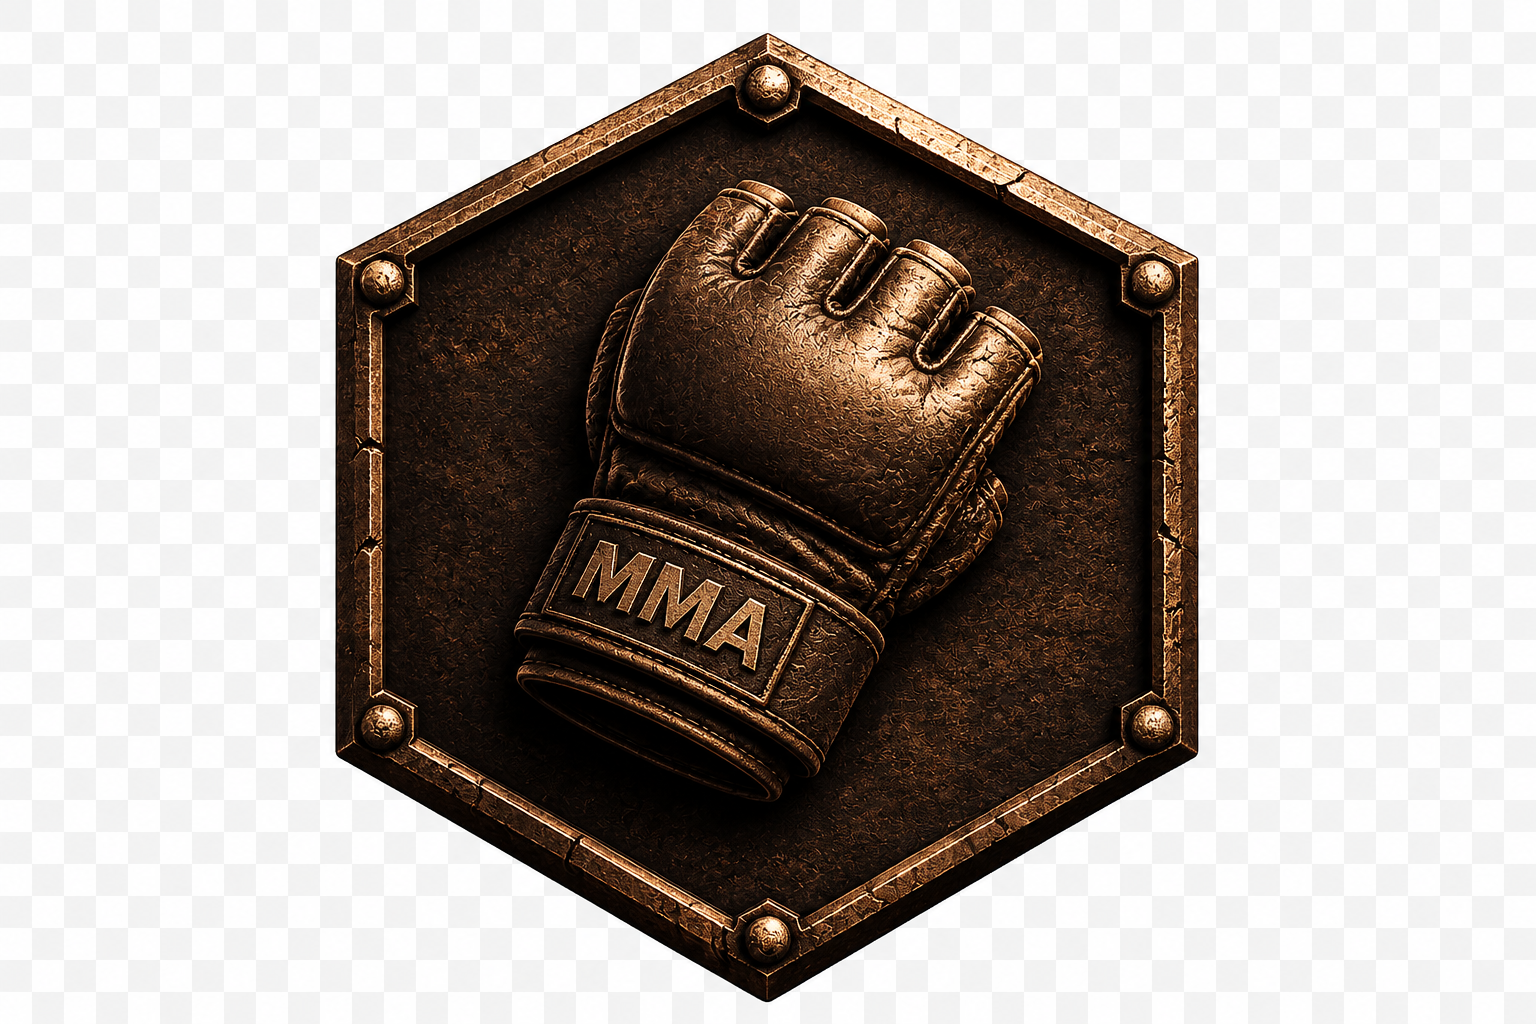
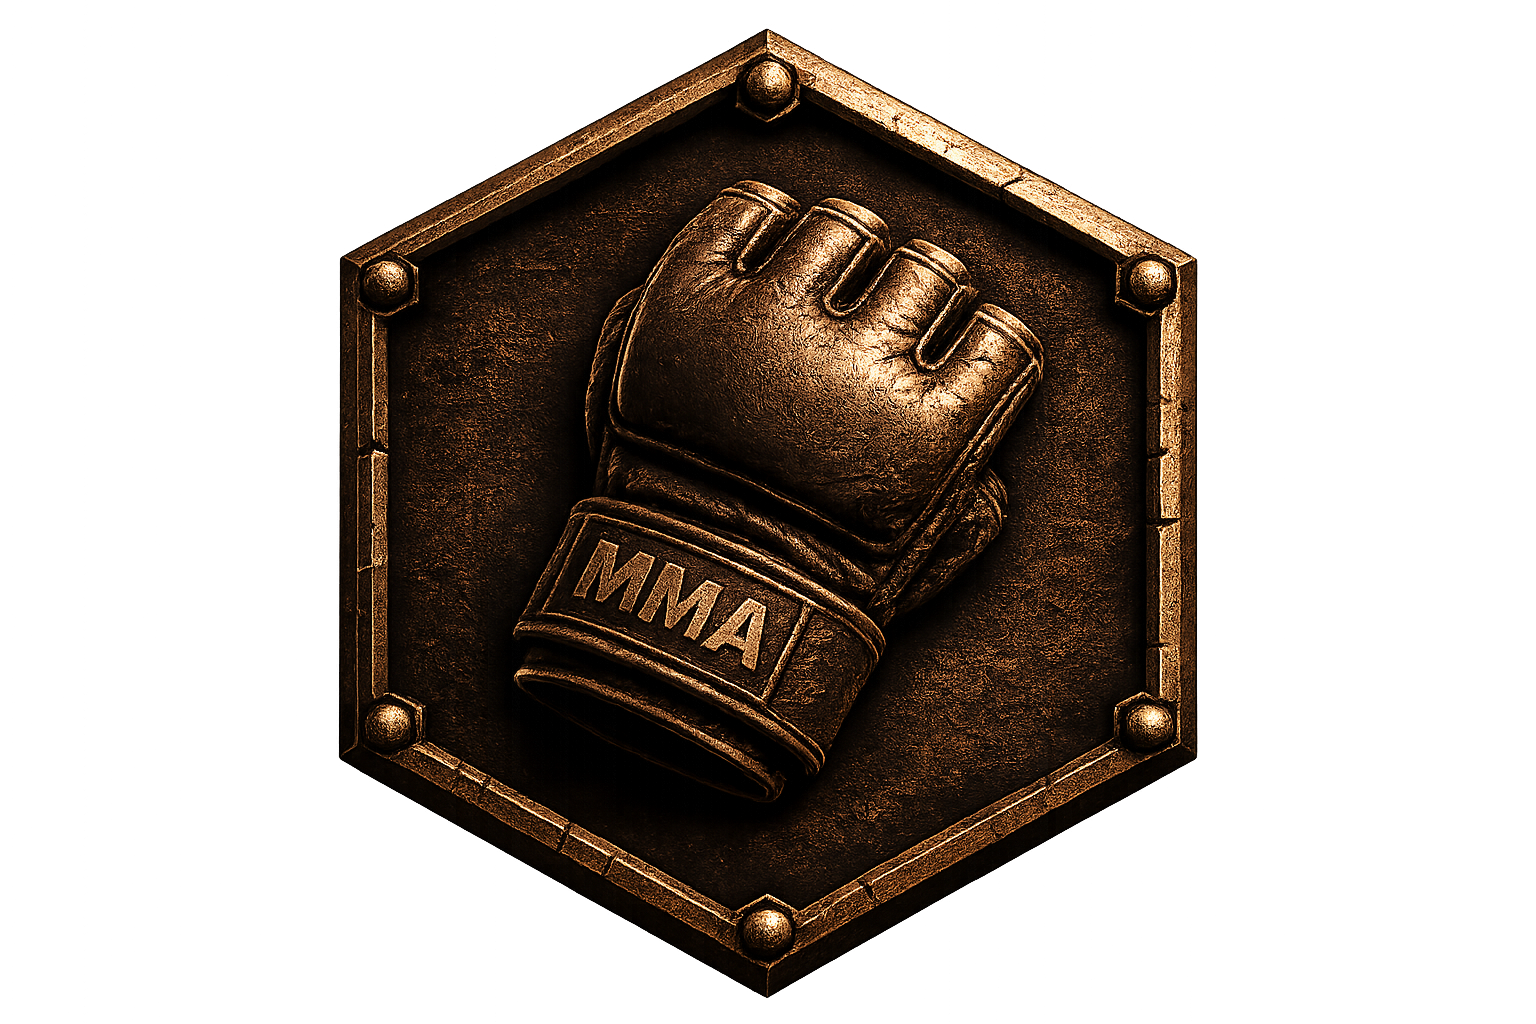
Mental hub: overlay pullback, image brightness, body text readable; breathwork images staged

Changed region(s): [[0.2188, 0.0312, 0.7812, 0.9688]]

diff --git a/src/app/(app)/history/page.tsx b/src/app/(app)/history/page.tsx
@@ -294,4 +294,98 @@ export default async function HistoryPage() {
                 </div>
 
                 {/* ── Rows ── */}
-                <div
+                <div style={{ display: 'flex', flexDirection: 'column' }}>
+                  {g.sessions.map((s, si) => {
+                    const typeLabel = s.session_type
+                      ? SESSION_TYPE_LABELS[s.session_type] ?? s.session_type.toUpperCase()
+                      : 'SESSION';
+                    const hasRefl = reflectionIds.has(s.id);
+                    const techN = techCounts[s.id] ?? 0;
+                    const rollN = rollCounts[s.id] ?? 0;
+
+                    const chips: string[] = [];
+                    if (s.duration_minutes) chips.push(`${s.duration_minutes}M`);
+                    if (techN > 0) chips.push(`${techN}T`);
+                    if (rollN > 0) chips.push(`${rollN}R`);
+
+                    return (
+                      <Link
+                        key={s.id}
+                        href={`/history/${s.id}`}
+                        style={{
+                          display: 'block',
+                          textDecoration: 'none',
+                          color: C.text,
+                          borderTop: si === 0 ? `1px solid ${C.border}` : 'none',
+                          borderBottom: `1px solid ${C.border}`,
+                          borderLeft: hasRefl ? `3px solid ${C.amber}` : '3px solid transparent',
+                          paddingLeft: 14,
+                        }}
+                      >
+                        <div style={{
+                          display: 'flex', alignItems: 'center',
+                          padding: '13px 0',
+                          gap: 12,
+                        }}>
+
+                          {/* Date + chips */}
+                          <div style={{ flex: 1 }}>
+                            <span style={{
+                              fontFamily: 'var(--font-anton)',
+                              fontSize: 15, letterSpacing: '0.06em',
+                              color: C.text, display: 'block',
+                            }}>
+                              {format(parseISO(s.session_date), 'EEE, MMM d').toUpperCase()}
+                            </span>
+                            {chips.length > 0 && (
+                              <span style={{
+                                fontFamily: 'var(--font-dm-mono)',
+                                fontSize: 9, letterSpacing: '0.16em',
+                                color: C.dimmer, marginTop: 3, display: 'block',
+                              }}>
+                                {chips.join(' · ')}
+                              </span>
+                            )}
+                          </div>
+
+                          {/* Type label + arrow */}
+                          <div style={{ display: 'flex', alignItems: 'center', gap: 10, flexShrink: 0 }}>
+                            <span style={{
+                              fontFamily: 'var(--font-dm-mono)',
+                              fontSize: 9, letterSpacing: '0.18em',
+                              color: C.amber,
+                            }}>
+                              {typeLabel}
+                            </span>
+                            <span style={{
+                              fontFamily: 'var(--font-dm-mono)',
+                              fontSize: 14, color: C.amberLow,
+                            }}>→</span>
+                          </div>
+                        </div>
+                      </Link>
+                    );
+                  })}
+                </div>
+              </section>
+            ))}
+
+            {/* Footer — 90-day window note */}
+            <div style={{
+              marginTop: 32, paddingBottom: 8,
+              display: 'flex', justifyContent: 'center',
+            }}>
+              <span style={{
+                fontFamily: 'var(--font-dm-mono)',
+                fontSize: 9, letterSpacing: '0.18em',
+                color: C.dimmer,
+              }}>
+                SHOWING LAST 90 DAYS · {totalSessions} TOTAL
+              </span>
+            </div>
+          </>
+        )}
+      </div>
+    </main>
+  );
+}

diff --git a/src/app/(app)/recovery/page.tsx b/src/app/(app)/recovery/page.tsx
@@ -364,4 +364,89 @@ export default async function RecoveryPage() {
           }}>
             <div>
               <div style={{
-                fontFamily: 'var(
+                fontFamily: 'var(--font-bebas)',
+                fontSize: 24, letterSpacing: '0.12em', color: C.brick, lineHeight: 1,
+              }}>
+                REPORT INJURY
+              </div>
+              <div style={{
+                fontFamily: 'var(--font-dm-mono)',
+                fontSize: 8, letterSpacing: '0.16em', color: C.dimmer, marginTop: 3,
+              }}>
+                INJURY TRACKING · RETURN-TO-ROLL PROTOCOL
+              </div>
+            </div>
+            <p style={{
+              fontFamily: 'var(--font-dm-mono)',
+              fontSize: 13, letterSpacing: '0.04em', lineHeight: 1.6, color: C.dim, margin: 0,
+            }}>
+              Something more than sore. Log it now.
+            </p>
+            <Link href="/recovery/injury/new" style={{ textDecoration: 'none', display: 'inline-block' }}>
+              <div style={{
+                display: 'inline-flex', alignItems: 'center', gap: 8,
+                padding: '8px 16px 6px',
+                border: `1px solid ${C.brick}`, color: C.brick,
+                fontFamily: 'var(--font-bebas)', fontSize: 15, letterSpacing: '0.14em',
+              }}>
+                LOG IT →
+              </div>
+            </Link>
+          </div>
+        </div>
+
+      </div>
+
+      {/* ── Last 7 days ───────────────────────────────────────────────── */}
+      {recent.length > 0 && (
+        <div style={{ marginTop: 28, padding: '0 22px' }}>
+          <div style={{ display: 'flex', alignItems: 'center', gap: 10, marginBottom: 12 }}>
+            <span style={{
+              fontFamily: 'var(--font-dm-mono)',
+              fontSize: 9, letterSpacing: '0.22em', color: C.dimmer,
+            }}>
+              LAST 7 DAYS
+            </span>
+            <div style={{ flex: 1, height: 1, background: C.border }} />
+          </div>
+          <div style={{ display: 'flex', flexDirection: 'column' }}>
+            {recent.map((r, i) => (
+              <div
+                key={r.id}
+                style={{
+                  display: 'flex', alignItems: 'center',
+                  borderTop: i === 0 ? `1px solid ${C.border}` : 'none',
+                  borderBottom: `1px solid ${C.border}`,
+                  padding: '12px 0', gap: 12,
+                }}
+              >
+                <div style={{ width: 8, height: 8, background: sorenessColor(r.overall), flexShrink: 0 }} />
+                <span style={{
+                  fontFamily: 'var(--font-bebas)',
+                  fontSize: 14, letterSpacing: '0.08em', color: C.text, flex: 1,
+                }}>
+                  {format(parseISO(r.log_date), 'EEE, MMM d').toUpperCase()}
+                </span>
+                {r.regions.length > 0 && (
+                  <span style={{
+                    fontFamily: 'var(--font-dm-mono)',
+                    fontSize: 8, letterSpacing: '0.12em', color: C.dimmer,
+                  }}>
+                    {r.regions.map(formatRegion).join(' · ')}
+                  </span>
+                )}
+                <span style={{
+                  fontFamily: 'var(--font-anton)',
+                  fontSize: 18, color: sorenessColor(r.overall), minWidth: 28, textAlign: 'right',
+                }}>
+                  {r.overall != null ? `${r.overall}` : '—'}
+                </span>
+              </div>
+            ))}
+          </div>
+        </div>
+      )}
+
+    </main>
+  );
+}

diff --git a/src/app/(app)/mental/page.tsx b/src/app/(app)/mental/page.tsx
@@ -72,15 +72,15 @@ function Panel({
           backgroundImage: `url(${bgImage})`,
           backgroundSize: 'cover',
           backgroundPosition: 'right center',
-          filter: 'saturate(1.3) contrast(1.05)',
-          opacity: 0.9,
+          filter: 'saturate(1.5) contrast(1.1)',
+          opacity: 0.95,
         }} />
       )}
-      {/* Overlay — solid black on text side, clear on image side */}
+      {/* Overlay — sharper falloff so image breathes on right side */}
       <div style={{
         position: 'absolute', inset: 0,
         background: bgImage
-          ? 'linear-gradient(90deg, rgba(5,5,5,0.95) 0%, rgba(5,5,5,0.88) 30%, rgba(5,5,5,0.4) 58%, rgba(5,5,5,0.0) 100%)'
+          ? 'linear-gradient(90deg, rgba(5,5,5,0.97) 0%, rgba(5,5,5,0.78) 20%, rgba(5,5,5,0.12) 42%, rgba(5,5,5,0.0) 100%)'
           : C.surface,
       }} />
 
@@ -122,7 +122,7 @@ function Panel({
           fontSize: 13,
           letterSpacing: '0.04em',
           lineHeight: 1.6,
-          color: C.dim,
+          color: 'rgba(242,239,232,0.68)',
           margin: 0,
         }}>
           {body}
@@ -175,13 +175,13 @@ function BrsPanel({
         backgroundImage: 'url(/mental-brs_bright.png)',
         backgroundSize: '130%',
         backgroundPosition: '85% center',
-        filter: 'saturate(1.5) contrast(1.1)',
-        opacity: 0.7,
+        filter: 'saturate(1.6) contrast(1.15)',
+        opacity: 0.92,
       }} />
-      {/* Overlay — opaque on text side, fades earlier to reveal more of image */}
+      {/* Overlay — sharper falloff */}
       <div style={{
         position: 'absolute', inset: 0,
-        background: 'linear-gradient(90deg, rgba(5,5,5,0.95) 0%, rgba(5,5,5,0.88) 30%, rgba(5,5,5,0.4) 58%, rgba(5,5,5,0.0) 100%)',
+        background: 'linear-gradient(90deg, rgba(5,5,5,0.97) 0%, rgba(5,5,5,0.78) 20%, rgba(5,5,5,0.12) 42%, rgba(5,5,5,0.0) 100%)',
       }} />
       <div style={{
         position: 'relative', zIndex: 1,
@@ -243,9 +243,9 @@ function BrsPanel({
       ) : (
         <span style={{
           fontFamily: 'var(--font-dm-mono)',
-          fontSize: 10,
+          fontSize: 12,
           letterSpacing: '0.14em',
-          color: C.dimmer,
+          color: C.dim,
         }}>
           NO SCORE YET.
         </span>
@@ -466,4 +466,3 @@ export default async function MentalHubPage() {
     </main>
   );
 }
-

diff --git a/src/app/(app)/progression/page.tsx b/src/app/(app)/progression/page.tsx
@@ -421,3 +421,25 @@ export default async function ProgressionPage() {
                   color: 'rgba(242,239,232,0.50)', marginTop: 3,
                 }}>STRIPE, BELT, OR OTHER RANK</div>
               </div>
+              <svg width="14" height="14" viewBox="0 0 14 14" fill="none">
+                <path d="M2 7h10M8 3l4 4-4 4" stroke="#C8943A" strokeWidth="1.5" strokeLinecap="round"/>
+              </svg>
+            </div>
+          </Link>
+        </div>
+
+        {/* Footer */}
+        <div style={{ padding: '28px 24px 12px', textAlign: 'center' }}>
+          <div style={{
+            fontFamily: fonts.body, fontSize: 10, letterSpacing: '0.10em',
+            color: 'rgba(242,239,232,0.28)', lineHeight: 2.0,
+          }}>
+            The rank is just a reflection of the journey.<br/>
+            The real reward is who you become along the way.
+          </div>
+        </div>
+
+      </div>
+    </main>
+  );
+}

diff --git a/src/app/(onboarding)/onboarding/done/consent-form.tsx b/src/app/(onboarding)/onboarding/done/consent-form.tsx
@@ -60,4 +60,10 @@ export function ConsentForm({ athleteId }: { athleteId: string }) {
         size="lg"
         className="w-full"
         onClick={handleContinue}
-      
+        disabled={isPending}
+      >
+        {isPending ? 'Setting up...' : 'Continue'}
+      </Button>
+    </div>
+  );
+}

diff --git a/src/app/(app)/log/page.tsx b/src/app/(app)/log/page.tsx
@@ -100,4 +100,7 @@ export default async function LogPage() {
         </div>
       )}
 
-      <LogForm tags={tags} activeI
+      <LogForm tags={tags} activeInjuries={activeInjuries} />
+    </main>
+  );
+}

diff --git a/src/app/(app)/breathwork/page.tsx b/src/app/(app)/breathwork/page.tsx
@@ -465,4 +465,5 @@ export default async function BreathworkPage() {
 
       </div>
     </main>
-  
+  );
+}

diff --git a/src/app/(app)/progression/boxing/BoxingRoadmapClient.tsx b/src/app/(app)/progression/boxing/BoxingRoadmapClient.tsx
@@ -437,4 +437,3 @@ export default function BoxingRoadmapClient({ currentTierKey }: { currentTierKey
     </main>
   );
 }
-